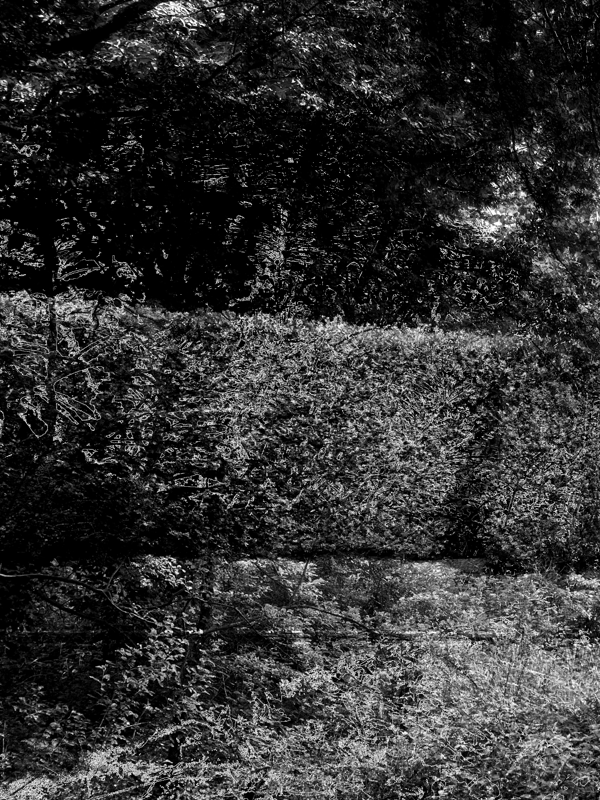
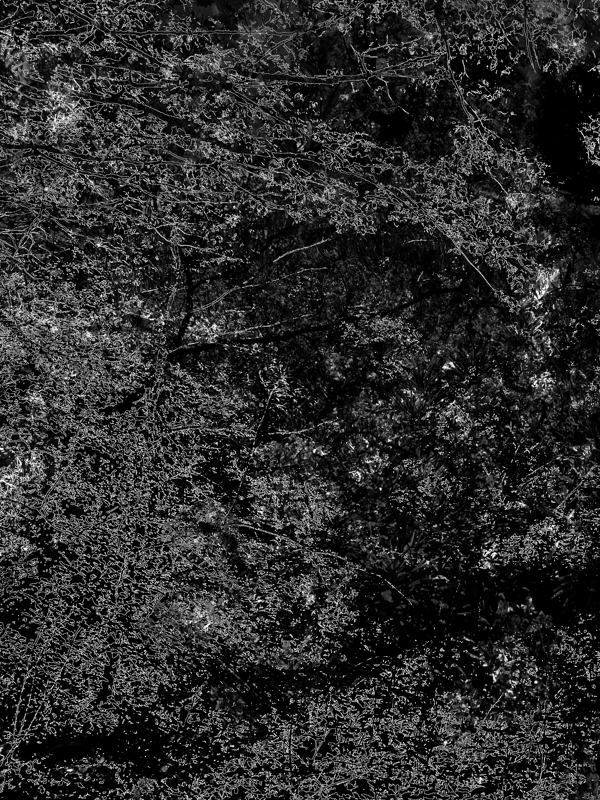
test commit

diff --git a/image_process.py b/image_process.py
@@ -39,11 +39,16 @@ for i in range(15):
     contoured = PIL_processes.PIL_contour(img2, 50)
     img2 = PIL_processes.PIL_invert(contoured)
 
+    # this is all new from - here
     composited1 = Image.composite(img1, img2, mask)
     composited1.show()
     composited1 = PIL_processes.PIL_contrast(composited1, 1.25)
     # composited1.show()
 
+    countoured = PIL_processes.PIL_contour(img3, 50)
+    img3 = PIL_processes.PIL_invert(contoured)
+    composited1 = Image.composite(composited1, img3, mask)
+    # to here
 
     width, height = composited1.size
     composited1 = PIL_processes.resize_image(composited1, int(width/3), int(height/3))
